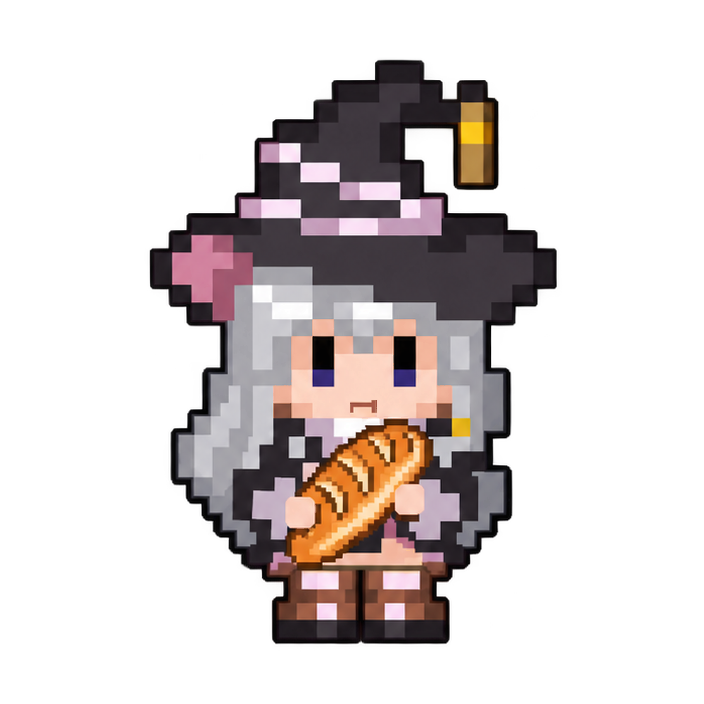
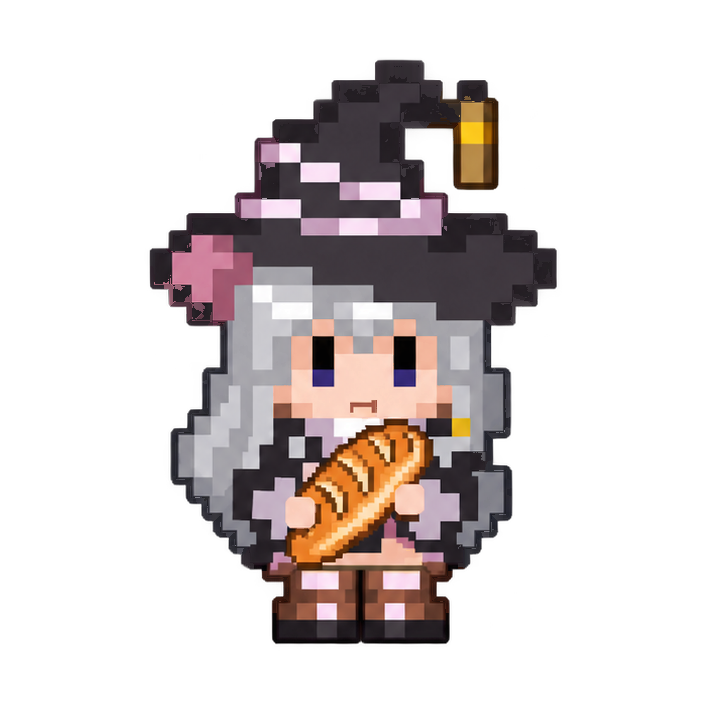
fix: soften bread outlines in desktop pet 2.2.2

diff --git a/docs/VERIFICATION.md b/docs/VERIFICATION.md
@@ -1,8 +1,16 @@
 # 測試與相容性
 
-目前發行版本 **2.2.1／build12**，以最後檢查完成的通用 App 打包。
+已發布版本為 **2.2.1／build12**；目前來源與本機 App 為 **2.2.2／build13**。既有 Release 安裝包維持原版本。
 
-## 已執行
+## 2.2.2 吃麵包外輪廓修色
+
+- 十格正式素材與四格展示素材已局部修色，減少額外粗黑外線；尺寸、透明輪廓及外線以外像素保留，臉部與麵包區域逐 byte 相同。
+- 十格使用相同輪廓遮罩；八秒動畫設定與內建台詞 JSON 保持原樣。
+- Swift 來源未變；沿用已驗證的通用執行檔，更新資源與版本後重新簽章。素材自檢 17 項、strict deep 簽章與雙架構核對通過。
+- 本機與專案 App 的 42 份 bundle 檔案皆匹配已檢查套件；啟動確認完成，既有使用者台詞與設定保留。此資源修正未重新執行完整程式回歸或自動桌面吃麵包互動測試。
+- [修色檢查結果](validation/bread-outline-validation.json)與[2.2.2 App 雜湊](validation/bread-outline-bundle-sha256.json)。
+
+## 2.2.1 既有檢查
 
 - 完整建置包含素材自檢、既有幾何／通知／行為回歸及 85 項文字檢查。
 - 主程式与通知輔助程式皆包含 arm64／x86_64，Info.plist 與 strict deep 簽章檢查通過。
@@ -13,7 +21,7 @@
 - 本機實機確認雙擊短飛與停留、像素泡泡無白邊／截字／遮臉、途中再抓取與全螢幕進退。
 - 發行 ZIP 解壓後的 42 份 App 檔案逐一匹配原 bundle，簽章及封裝後素材自檢通過。
 
-## 證據
+## 2.2.1 既有證據
 
 - [文字檢查結果](validation/speech-validation.json)
 - [App 檔案雜湊](validation/release-bundle-sha256.json)

diff --git a/CHANGELOG.md b/CHANGELOG.md
@@ -1,6 +1,14 @@
 # 版本紀錄
 
-## 2.2.1
+## 2.2.2 — 原始碼更新，尚無發行安裝包
+
+- 調整吃麵包時人物外輪廓的過粗黑邊，保留臉部、麵包與動畫節奏。
+- 掃帚、散步與麵包的作品展示動畫改為透明背景。
+- App 內新版吃麵包畫面仍待實機觀察；已完成的資源與簽章檢查見 [測試紀錄](docs/VERIFICATION.md)。
+
+## 2.2.1 — 已發布
 
 - 雙擊後騎掃帚飛得更俐落，並在較遠的新落點停留。
 - 對話框改用 Cubic 11 繁中像素字體，移除文字白邊。
+
+發行安裝包仍為 2.2.1；目前原始碼與安裝包之間的版本差異不會自動更新已下載的 App。

diff --git a/app/README.md b/app/README.md
@@ -1,6 +1,6 @@
 # 伊蕾娜桌寵 · macOS
 
-目前版本 **2.2.1／build12**。使用 Swift 與 AppKit，包含 Apple Silicon／Intel 通用執行檔，最低部署目標為 macOS 12。
+目前版本 **2.2.2／build13**。使用 Swift 與 AppKit，包含 Apple Silicon／Intel 通用執行檔，最低部署目標為 macOS 12。
 
 ## 操作
 
